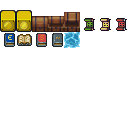
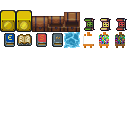
art gallery

Changed region(s): [[0.625, 0.25, 1.0, 0.375], [0.6562, 0.25, 0.7188, 0.2812]]

diff --git a/js/GameScene.js b/js/GameScene.js
@@ -234,6 +234,15 @@ export default class GameScene extends BaseScene {
 
 		//// Player
 		this.player = this.add.player(startPosition.x, startPosition.y, this.currentChar)
+		this.tweens.add({
+			targets: this.player,
+			alpha: { start: 0,from: 0, to:1},
+			delay: 1500,
+			duration: 4000,
+			ease: "Cubic",
+			yoyo: false,
+			loop: 0
+		})
 		//// Trying camera
 		if (!DEBUG) {
 			// debug shortcut
@@ -379,7 +388,7 @@ export default class GameScene extends BaseScene {
 		setTimeout(() => {
 			globalEvents.emit(
 				'says',
-				`Welcome to Haciendas!                    A decentralised game to learn and interact with digital assets.          Use WASD to move around and spacebar to talk or interact with objects or the touch controls.                        This game is in early alpha. Feel free to join our discord on the upper righ corner for to give feedback.`
+				`Welcome to Haciendas!                    A decentralised game to learn and interact with digital assets.          Use WASD to move around and spacebar to talk or interact with objects or the touch controls.                        This game is in early alpha and works on desktop and android. Feel free to join our discord on the upper right corner to give feedback.`
 			)
 			this.quest = 'get a fox'
 		}, timeout)
@@ -417,6 +426,62 @@ export default class GameScene extends BaseScene {
 		// const toMainland = map.findObject("Helpers", obj => obj.name === "toMainland")
 		// const startMainland = map.findObject("Helpers", obj => obj.name === "startMainland")
 		this.addGateway('toMainland', 'startMainland', map)
+
+		this.addGateway('toArtGallery', 'startArtGallery', map)
+		this.addGateway('leaveArtGallery', 'outArtGallery', map)
+
+		// Art gallery 
+		const options = {method: 'GET'};
+		const firstPiece = map.findObject('Helpers', obj => obj.name === 'Piece1')
+		this.artGroup = this.physics.add.group()
+
+		fetch('https://api.opensea.io/api/v1/assets?asset_contract_address=0x41a322b28d0ff354040e2cbc676f0320d8c8850d&order_direction=desc&offset=0&limit=12', options)
+		.then(response => response.json())
+		.then(r => {
+			let assets = r.assets
+			for (let i = 0; i < assets.length; i++) {
+				// TODO: Create container
+				const artData = assets[i]
+				console.log(artData)
+				let localx = firstPiece.x+(i%4)*48
+				let localy = firstPiece.y+(Math.floor(i/4)*32)
+				let newArt = {}
+				if (artData.image_thumbnail_url){
+					newArt = this.add.dom(localx, localy).createFromHTML(`<img src="${artData.image_thumbnail_url}" style="max-width: 16px;border-style: solid;border-width:0.1px">`)
+					.setDepth(10)
+					.setOrigin(0,0)
+					// .setScale(0.1)
+					newArt.data = artData
+					newArt.setInteractive()
+					newArt.on('pointerup', () => {
+						console.log(`art display`, artData)
+						document.getElementById('artpiece').src = `${artData.image_url}`
+						document.getElementById('modal_art').checked = true; // open modal
+						// document.getElementById('modal_1').checked = false; // close modal
+						
+						// let artDisplay =  this.add.dom(this.cameras.main.width/2, this.cameras.main.heigth/2).createFromHTML(`<img src="${artData.image_url}" style="max-width: 300px; max-heigth: 200px;border-style: solid;border-width:1px">`)
+						// artDisplay.setInteractive()
+						// artDisplay.on('pointerup', () => {
+						// 	artDisplay.setActive(false).setVisible(false);
+						// 	artDisplay.destroy()
+						// })
+					})
+				} else {
+					newArt = this.add.image(localx,localy , 'things2', 23).setDepth(5).setOrigin(0,0)
+				}
+				// this.artGroup.add(newArt)
+			}
+		})
+		.catch(err => console.error(err));
+		// this.physics.add.collider(
+		// 	this.player,
+		// 	this.artGroup.getChildren(),
+		// 	(p, a) => {
+		// 		a.body.setVelocity(0, 0)
+		// 	},
+		// 	null,
+		// 	this
+		// )
 
 		// Faucet (interaction in handled with action in Player.js)
 		const faucet = map.findObject('Helpers', obj => obj.name === 'Faucet')
@@ -545,6 +610,14 @@ export default class GameScene extends BaseScene {
 
 			newPlayer.playerId = id
 			newPlayer.direction = globalNetwork.players[id].dir
+			this.tweens.add({
+				targets: newPlayer,
+				alpha: {from: 0, to:1},
+				duration: 2000,
+				ease: "Cubic",
+				yoyo: false,
+				loop: 0
+			})
 			globalNetwork.players[id].sprite = newPlayer
 			// console.log(` Network player added ${id}`,globalNetwork.players[id].sprite, `Full list`, globalNetwork.players)
 		})

diff --git a/js/chars/PNJ.js b/js/chars/PNJ.js
@@ -118,7 +118,7 @@ export default class PNJ extends Phaser.Physics.Arcade.Sprite {
 						})
 						.catch(err => {
 							this.says(
-								`I can't. Please use a browser wallet, such as Brave or MetaMask. Contact use if you have a prefered option.`
+								`I can't. Please use a browser wallet, such as Brave or MetaMask. Contact us if you have a prefered option.`
 							)
 						})
 				}, 2800)
@@ -144,12 +144,13 @@ export default class PNJ extends Phaser.Physics.Arcade.Sprite {
 				break
 			case 'Laura':
 				this.says(`¡Hola!\nTalk to the fisherman in the house North from here to learn fundamentals or to the Fox near the lake behind me to connect a wallet.`)
-				this.scene.sound.play('Laura-Hola')
-
-				break	
+				break
+			case 'Diara':
+				this.says(`Welcome to our art gallery. Press click on an art piece to see it better`)
+				break
 			case 'Andrés':
 				if (this.scene.player.quests['catch-transactions'] && this.scene.player.quests['catch-transactions'].isActive) {
-					this.says(`Go to the mempool in the West and catch five green transactions`)
+					this.says(`Go to the mempool in the West and catch five green transactions using spacebar or the action button on mobiles`)
 				} else {
 					this.says(
 						`Bienvenido! To learn the basics of blockchains, grab the net next to me and let's make a block!`

diff --git a/index.html b/index.html
@@ -55,5 +55,27 @@
 		<script src='https://meet.jit.si/external_api.js'></script>
 
 		<script type="module" src="js/main.js"></script>
+
+
+		<div class="modal">
+			<input id="modal_art" type="checkbox" />
+			<label for="modal_art" class="overlay"></label>
+			<article style="background-color: black;">
+			  <!-- <header>
+				<h3>Great offer</h3>
+				<label for="modal_art" class="close">&times;</label>
+			  </header> -->
+			  <section  class="content">
+				  <img src="" id="artpiece" alt="art piece">
+			  </section>
+			  <!-- <footer>
+				<a class="button" href="#">See offer</a>
+				<label for="modal_art1" class="button dangerous">
+				  Cancel
+				</label>
+			  </footer> -->
+			</article>
+		  </div>
+		
 	</body>
 </html>
